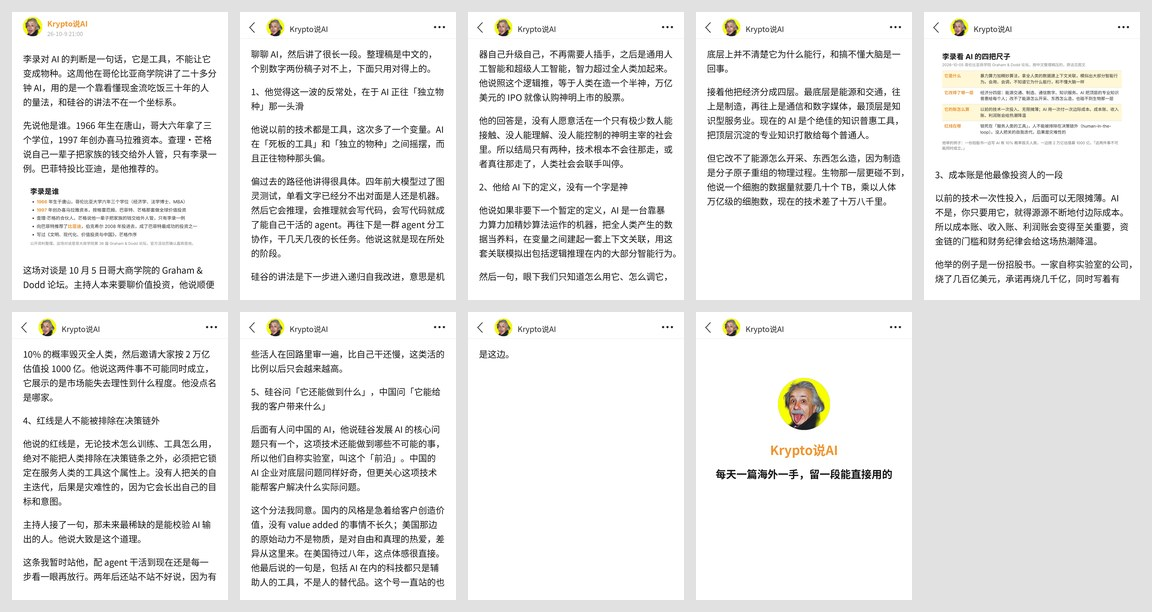
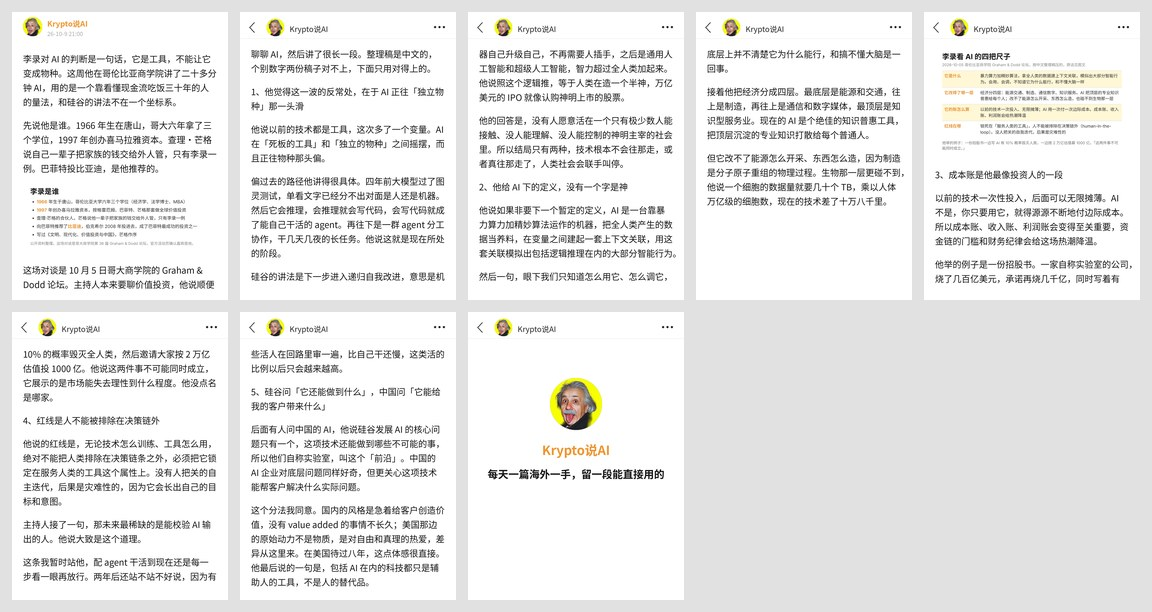
李录稿：8 页定稿
Claude-Session: https://claude.ai/code/session_015PCFAaTRLY2GD1Se7DV5ug

Changed region(s): [[0.4062, 0.4967, 0.8125, 0.9935], [0.3125, 0.9314, 0.4062, 0.9624], [0.4062, 0.5588, 0.4375, 0.5899]]

diff --git a/发布/2026-10-08_lilu-ai-tool-not-species/meme版/编辑用/draft.md b/发布/2026-10-08_lilu-ai-tool-not-species/meme版/编辑用/draft.md
@@ -56,4 +56,4 @@ account: Krypto说AI
 
 后面有人问中国的 AI，他说硅谷发展 AI 的核心问题只有一个，这项技术还能做到哪些不可能的事，所以他们自称实验室，叫这个「前沿」。中国的 AI 企业对底层问题同样好奇，但更关心这项技术能帮客户解决什么实际问题。
 
-这个分法我同意。国内的风格是急着给客户创造价值，没有 value added 的事情不长久；美国那边的原始动力不是物质，是对自由和真理的热爱，差异从这里来。在美国待过八年，这点体感很直接。他最后说的一句是，包括 AI 在内的科技都只是辅助人的工具，不是人的替代品。这个号一直站的也是这边。
+这个分法我同意。国内的风格是急着给客户创造价值，没有 value added 的事情不长久；美国那边的原始动力不是物质，是对自由和真理的热爱，差异从这里来。在美国待过八年，这点体感很直接。他最后说的一句是，包括 AI 在内的科技都只是辅助人的工具，不是人的替代品。
